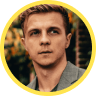
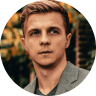
add webp format images

Changed region(s): [[0.0, 0.0, 1.0, 1.0]]

diff --git a/src/partials/customers-say.html b/src/partials/customers-say.html
@@ -66,9 +66,16 @@
                 <picture>
                   <source
                     srcset="
+                      ./images/customers/avatar1(1x).webp,
+                      ./images/customers/avatar1(2x).webp
+                    "
+                    media="(min-width: 320px)"
+                    type="image/webp"
+                  />
+                  <source
+                    srcset="
                       ./images/customers/avatar1(1x).png,
-                      ./images/customers/avatar1(2x).png,
-                      ./images/customers/avatar1(3x).png
+                      ./images/customers/avatar1(2x).png
                     "
                     media="(min-width: 320px)"
                   />
@@ -147,9 +154,16 @@
                 <picture>
                   <source
                     srcset="
+                      ./images/customers/avatar2(1x).webp,
+                      ./images/customers/avatar2(2x).webp
+                    "
+                    media="(min-width: 320px)"
+                    type="image/webp"
+                  />
+                  <source
+                    srcset="
                       ./images/customers/avatar2(1x).png,
-                      ./images/customers/avatar2(2x).png,
-                      ./images/customers/avatar2(3x).png
+                      ./images/customers/avatar2(2x).png
                     "
                     media="(min-width: 320px)"
                   />
